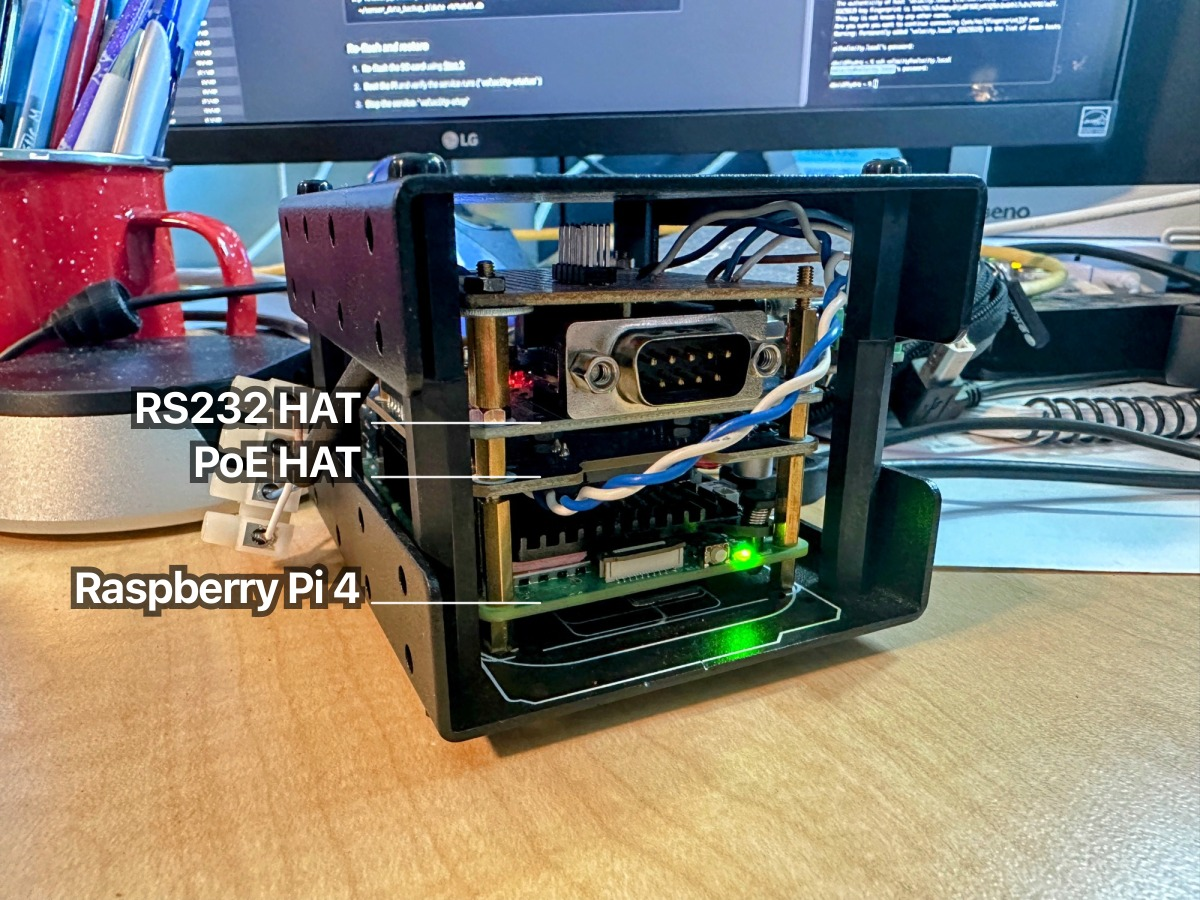
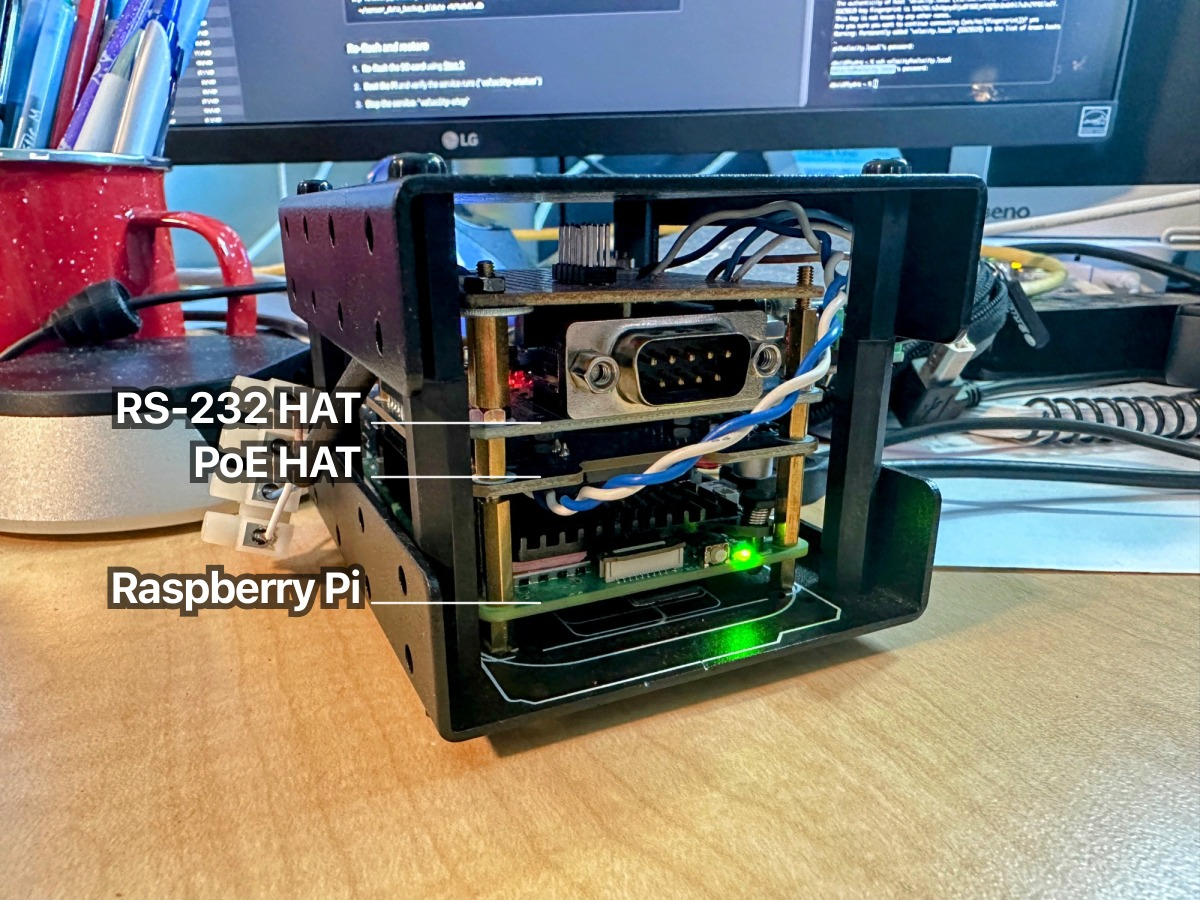
[py] update labels for RS-232 HAT and Raspberry Pi in guide overlays

Changed region(s): [[0.0617, 0.6222, 0.3083, 0.6844], [0.0925, 0.4044, 0.1542, 0.4978]]

diff --git a/tools/guide-overlays/draw_overlays.py b/tools/guide-overlays/draw_overlays.py
@@ -349,9 +349,9 @@ STACK_CFG = {
     # Leader tip x (% of width) — where the leader line touches the board
     "leader_tip_x_pct": 45.0,
     "labels": [
-        {"text": "RS232 HAT", "y_pct": 47.0},
+        {"text": "RS-232 HAT", "y_pct": 47.0},
         {"text": "PoE HAT", "y_pct": 53.0},
-        {"text": "Raspberry Pi 4", "y_pct": 67.0},
+        {"text": "Raspberry Pi", "y_pct": 67.0},
     ],
 }
 
